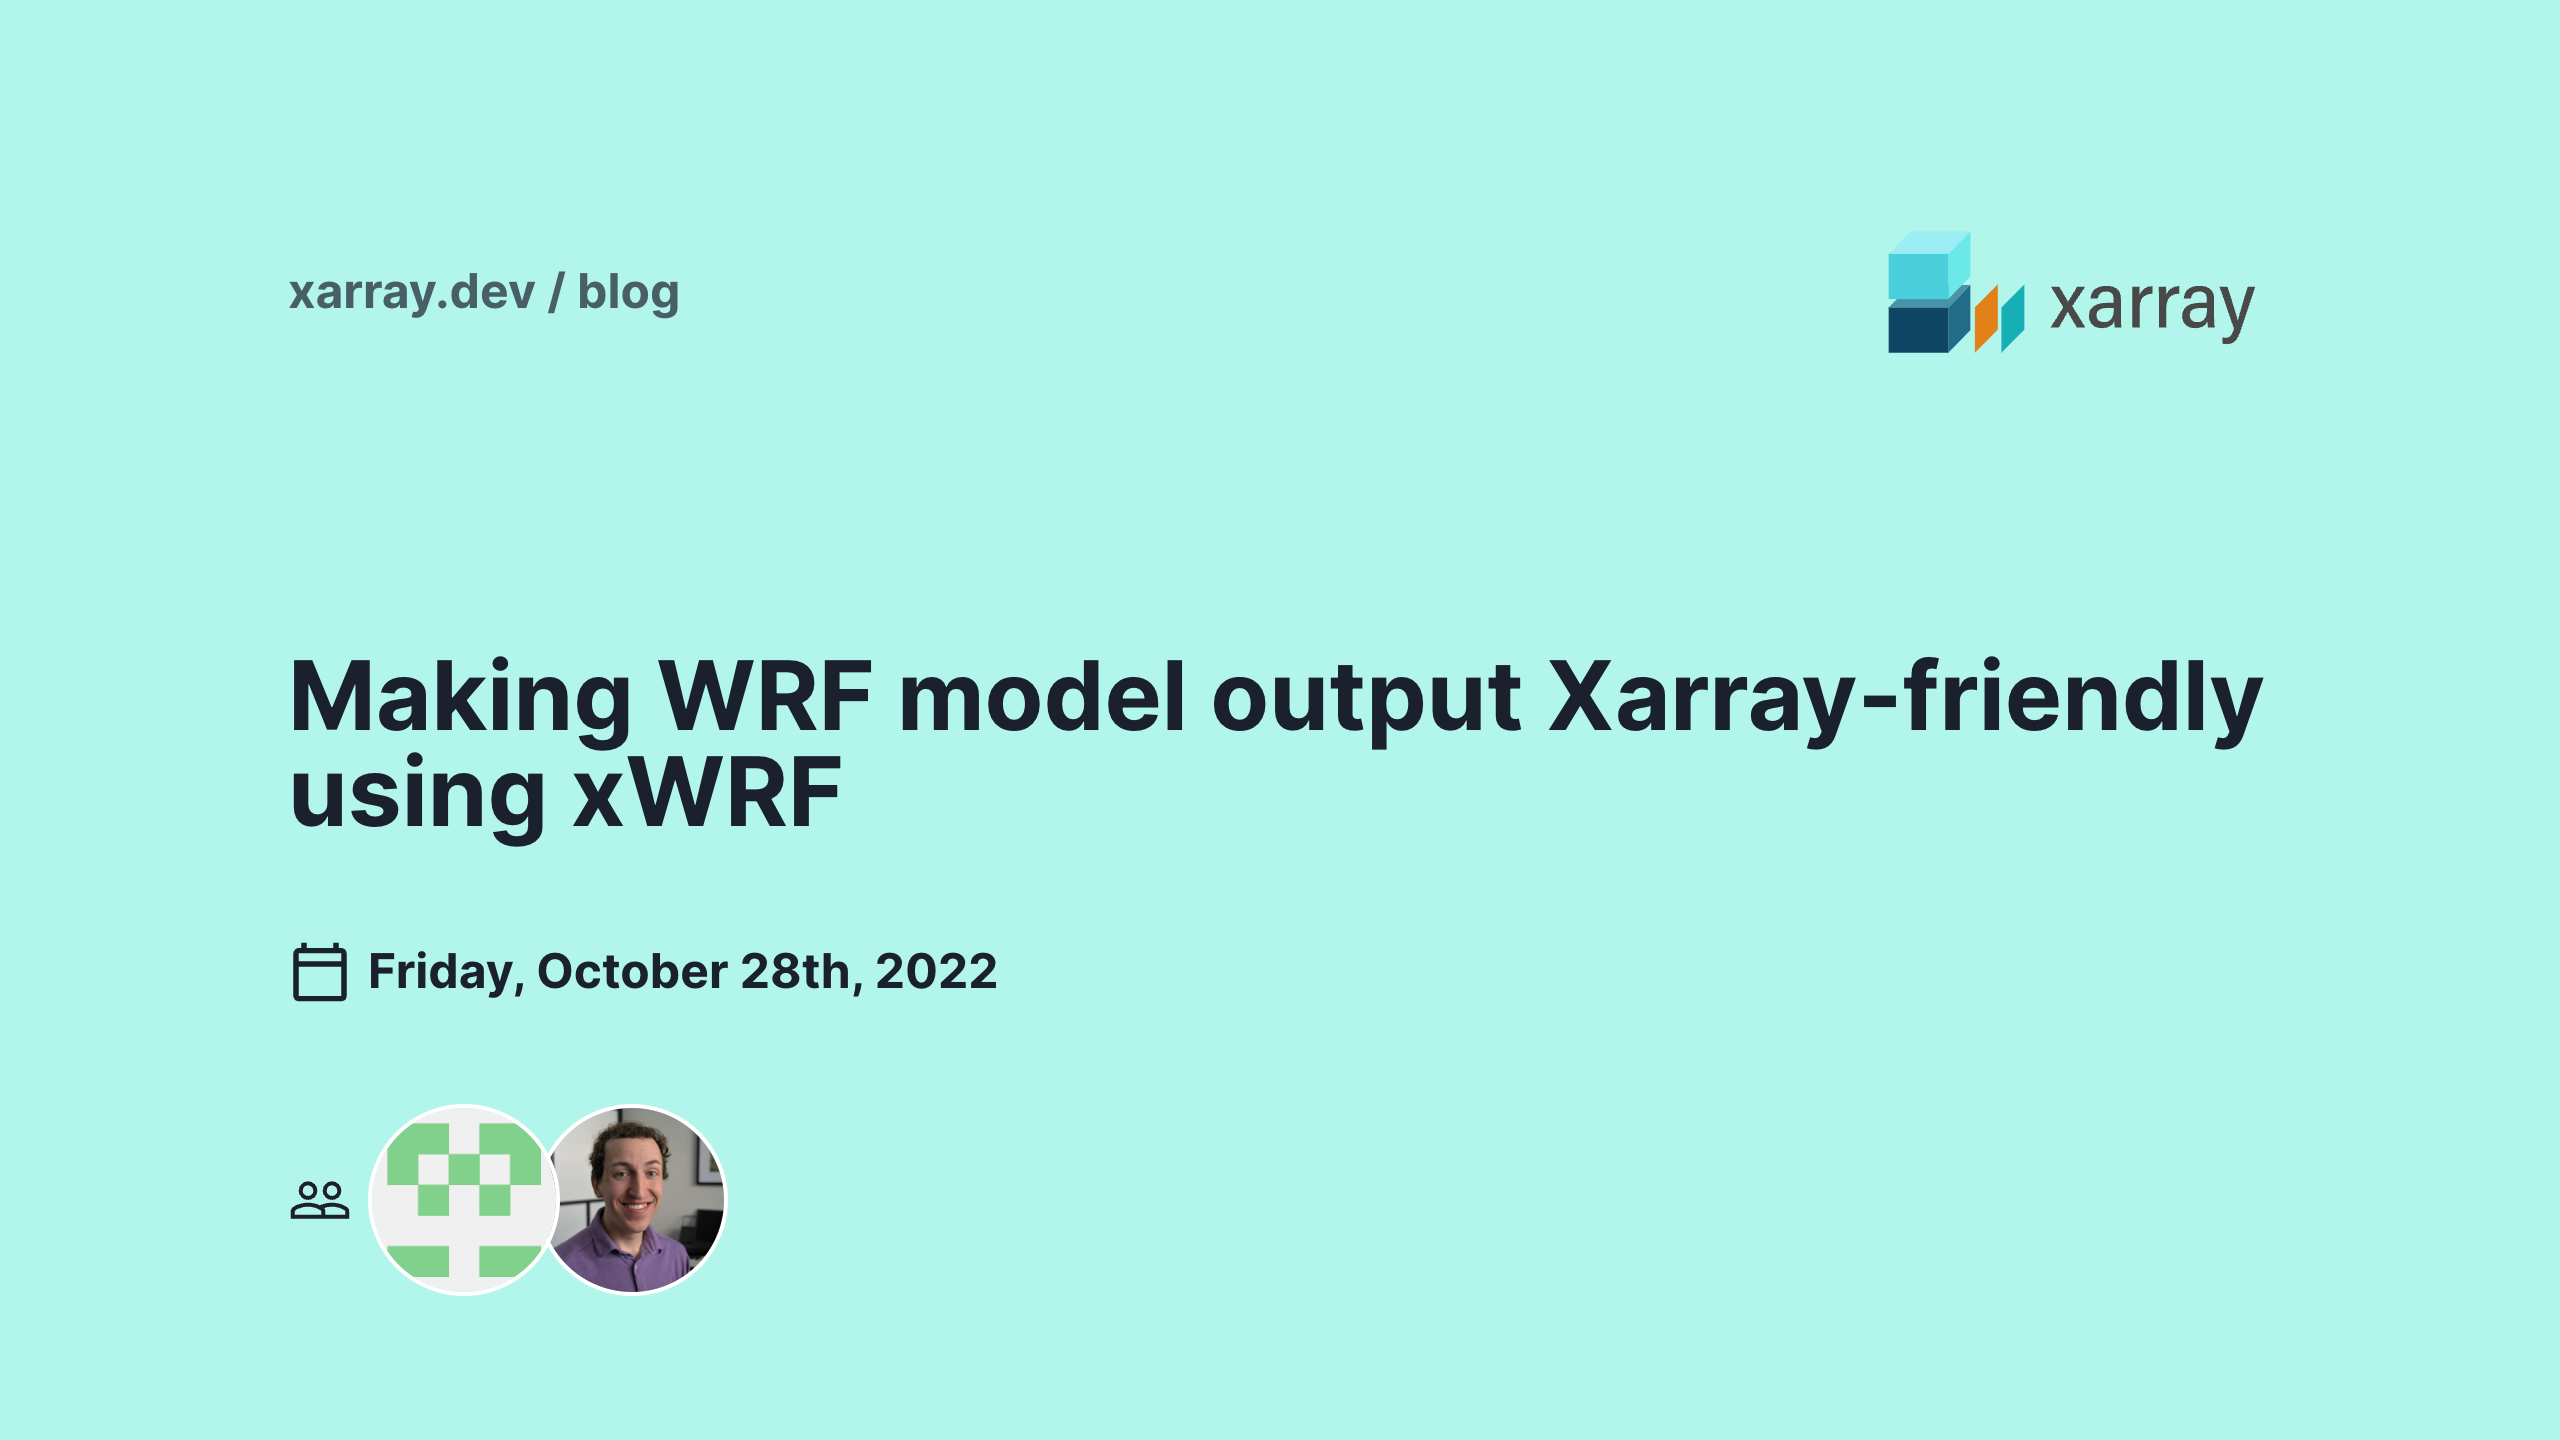
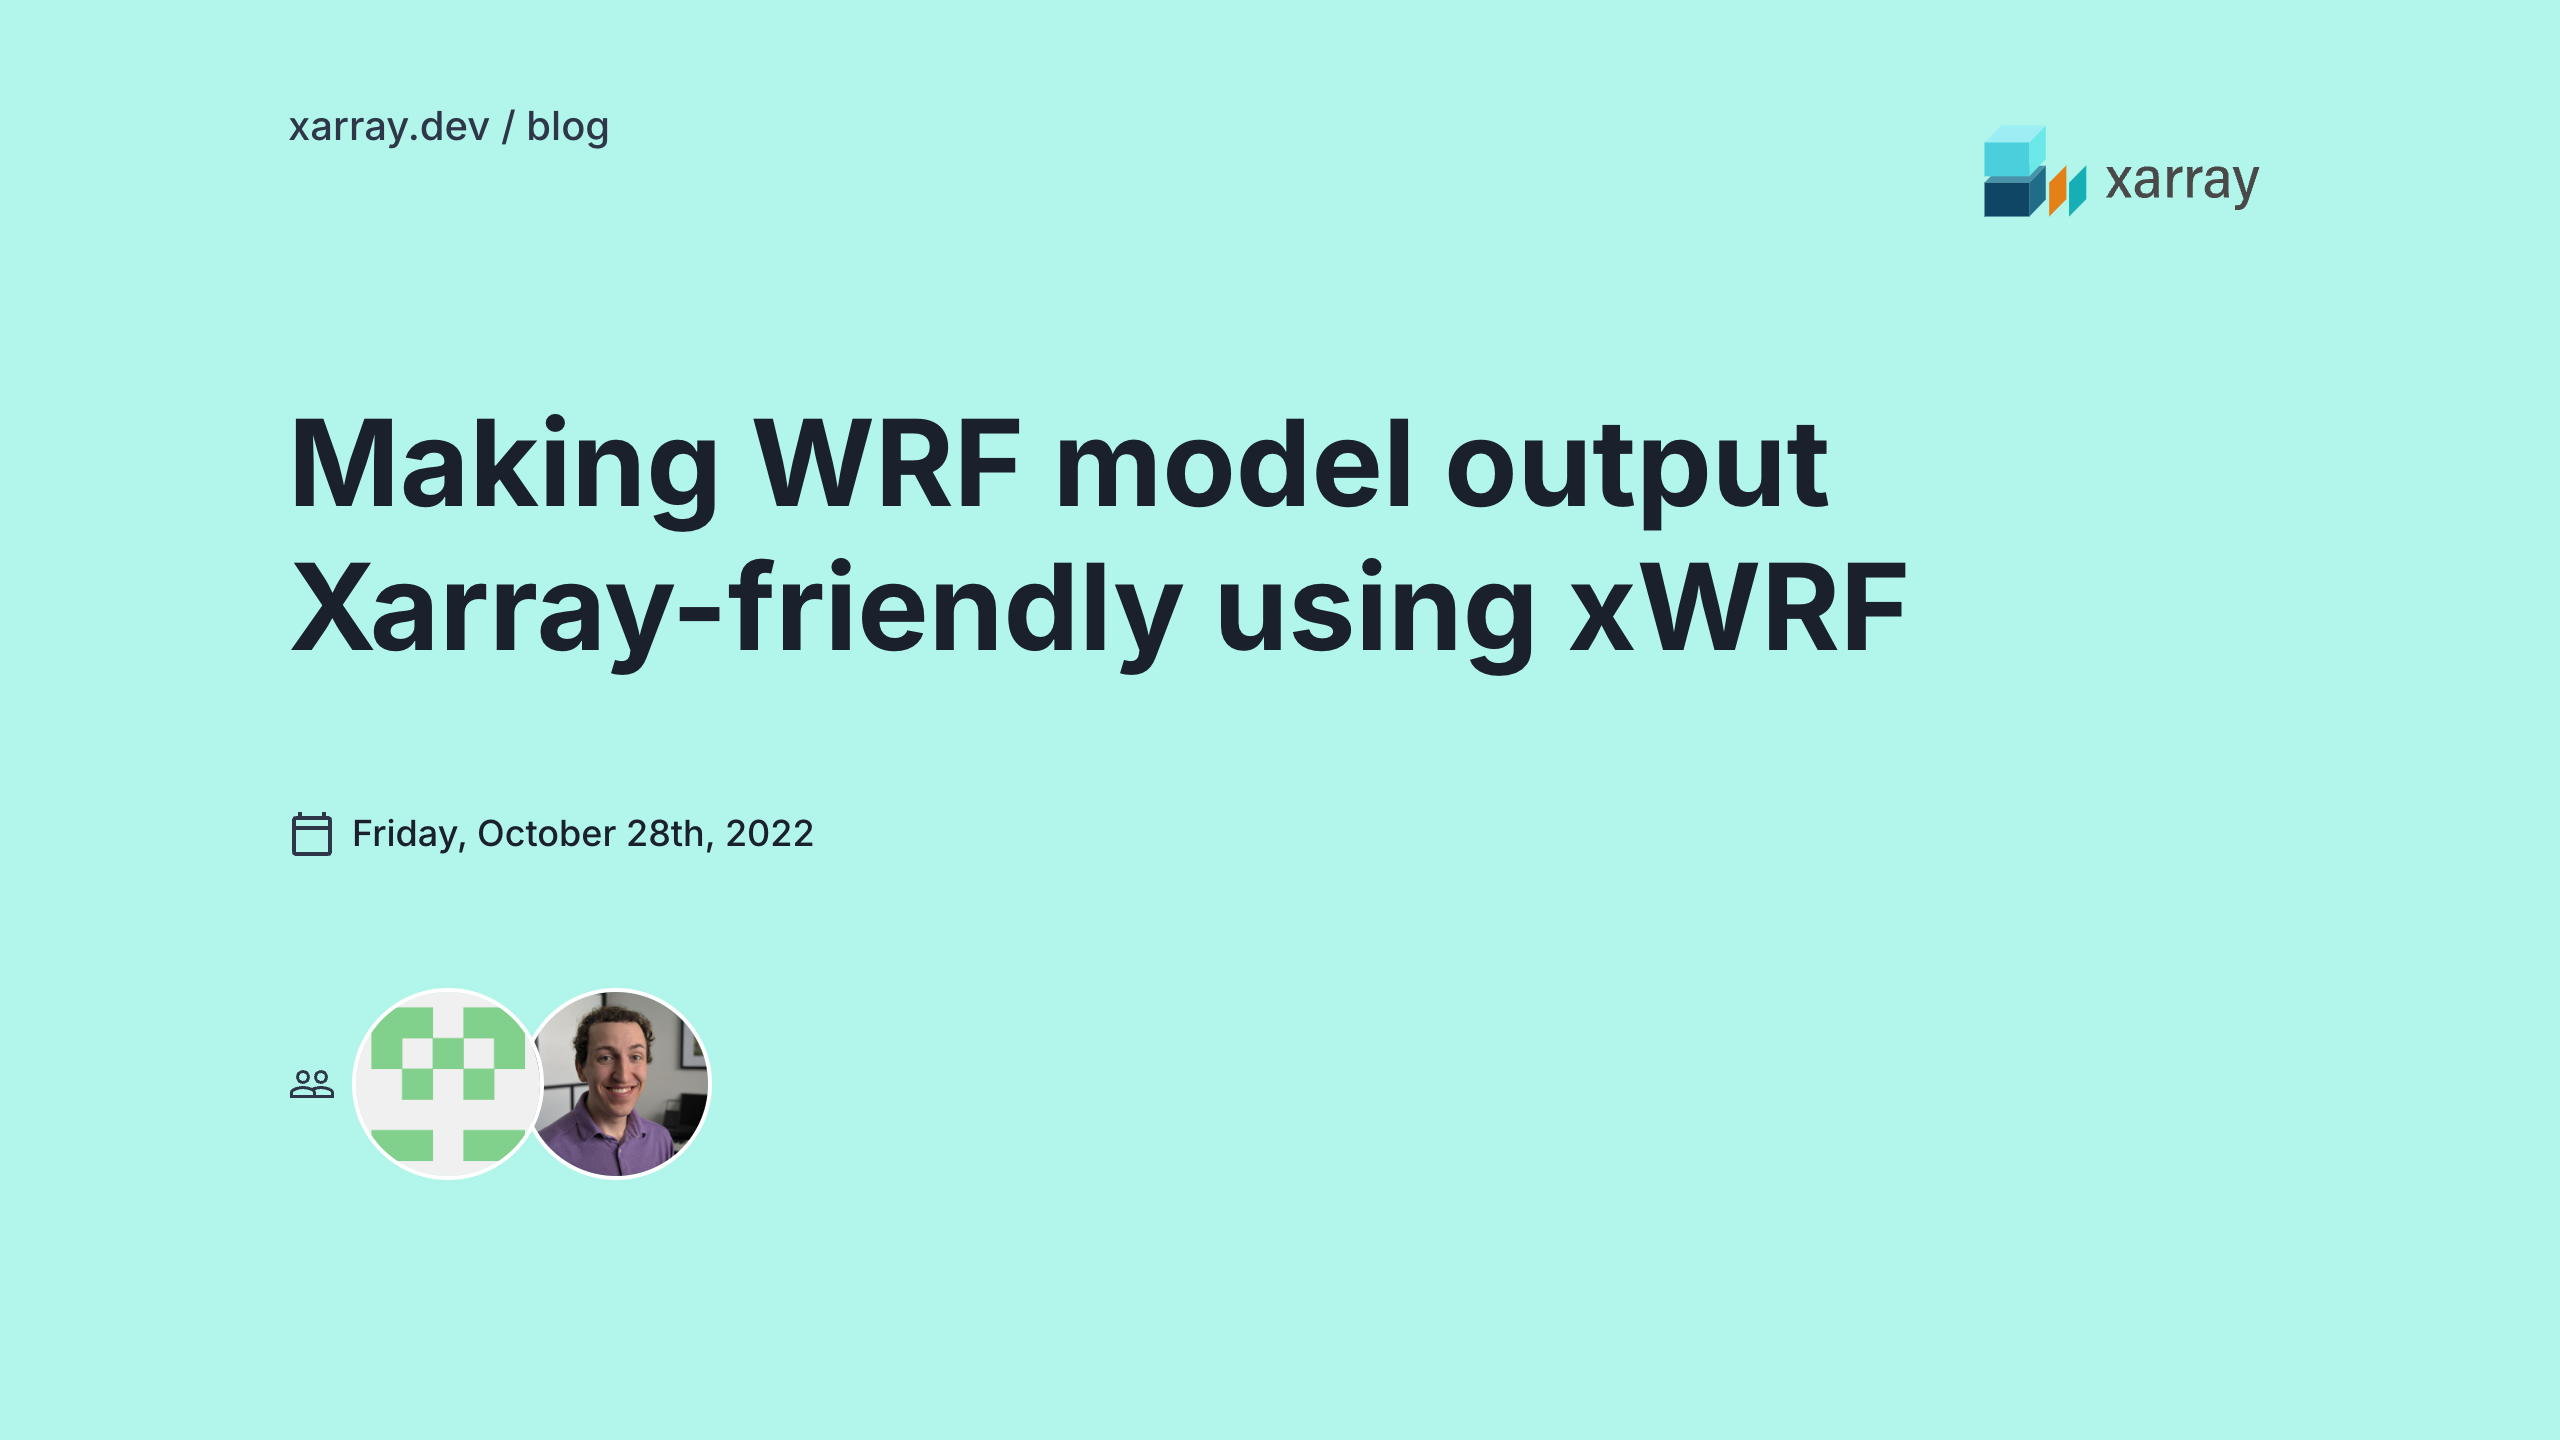
update opengraph images

diff --git a/src/pages/cards/[id].js b/src/pages/cards/[id].js
@@ -1,6 +1,4 @@
 import { Image } from '@/components/mdx'
-import { MdOutlineCalendarToday, MdPeopleOutline } from 'react-icons/md'
-
 import { formatDate } from '@/lib/date-formatting'
 import { getAllPostsIds, getPostData } from '@/lib/posts'
 import {
@@ -11,71 +9,73 @@ import {
   Flex,
   Heading,
   Icon,
-  Stack,
   Text,
+  VStack,
 } from '@chakra-ui/react'
 import fs from 'fs'
 import matter from 'gray-matter'
 import path from 'path'
+import { MdOutlineCalendarToday, MdPeopleOutline } from 'react-icons/md'
 
 const Card = ({ frontmatter, id }) => {
-  const boxBackground = 'teal.100'
   const date = new Date(frontmatter.date)
 
   return (
-    <Box
-      sx={{ bg: boxBackground, color: 'invert' }}
-      h={'100vh'}
-      w={'100vw'}
-      backgroundImage={'/background.svg'}
-    >
-      <Container id='post' maxW={'container.lg'} centerContent>
-        <Flex direction='column' fontSize={'2xl'}>
-          <Stack direction={'row'} spacing={8} justify='space-between'>
-            <Stack>
-              <Text my={32} fontWeight={'bold'} opacity={0.7}>
-                xarray.dev / blog
-              </Text>
-            </Stack>
+    <Box bg='teal.100' minH='100vh' w='100vw'>
+      <Container maxW='container.lg' h='100%' py={12}>
+        <Flex direction='column' h='100%' justify='center'>
+          <Flex justifyContent='space-between' alignItems='flex-start' mb={6}>
+            <Text fontSize='xl' color='gray.700' fontWeight='medium'>
+              xarray.dev / blog
+            </Text>
+            <Image
+              w='150px'
+              h='auto'
+              objectFit='contain'
+              src='/Xarray-assets/RGB/Xarray_Logo_RGB_Final.svg'
+              alt='xarray logo'
+            />
+          </Flex>
+
+          <VStack align='stretch' spacing={16} my={12}>
+            <Heading as='h1' size='3xl' fontWeight='bold' lineHeight='1.2'>
+              {frontmatter.title}
+            </Heading>
+
             <Flex
-              direction={'row'}
-              alignItems={'center'}
-              justify={'right'}
-              align={'right'}
+              direction={['column', 'row']}
+              justify='space-between'
+              align={['flex-start', 'center']}
+              wrap='wrap'
+              gap={4}
             >
-              <Image
-                justify={'right'}
-                align={'right'}
-                w={'200px'}
-                src={'/Xarray-assets/RGB/Xarray_Logo_RGB_Final.svg'}
-                alt={'xarray logo'}
-              />
+              <Flex align='center'>
+                <Icon
+                  as={MdOutlineCalendarToday}
+                  w={6}
+                  h={6}
+                  mr={2}
+                  color='gray.700'
+                />
+                <Text fontSize='lg' fontWeight='medium'>
+                  {formatDate(date)}
+                </Text>
+              </Flex>
             </Flex>
-          </Stack>
-          <Heading as={'h1'} size={'2xl'} my={8}>
-            {frontmatter.title}
-          </Heading>
 
-          <Stack direction={'row'} my={4} align={'center'}>
-            <Icon as={MdOutlineCalendarToday} w='8' h='8' />
-            <Text fontWeight={'bold'}>{formatDate(date)}</Text>
-          </Stack>
-
-          <Stack direction={'row'} my={8} align={'center'}>
-            <Icon as={MdPeopleOutline} w='8' h='8' />
-
-            <AvatarGroup size={'xl'}>
-              {frontmatter.authors.map((author) => {
-                return (
+            <Flex align='center'>
+              <Icon as={MdPeopleOutline} w={6} h={6} mr={2} color='gray.700' />
+              <AvatarGroup size='xl' max={5} spacing='-0.75rem'>
+                {frontmatter.authors.map((author) => (
                   <Avatar
                     key={author.name}
-                    src={`https://github.com/${author.github}.png`}
                     name={author.name}
+                    src={`https://github.com/${author.github}.png`}
                   />
-                )
-              })}
-            </AvatarGroup>
-          </Stack>
+                ))}
+              </AvatarGroup>
+            </Flex>
+          </VStack>
         </Flex>
       </Container>
     </Box>
